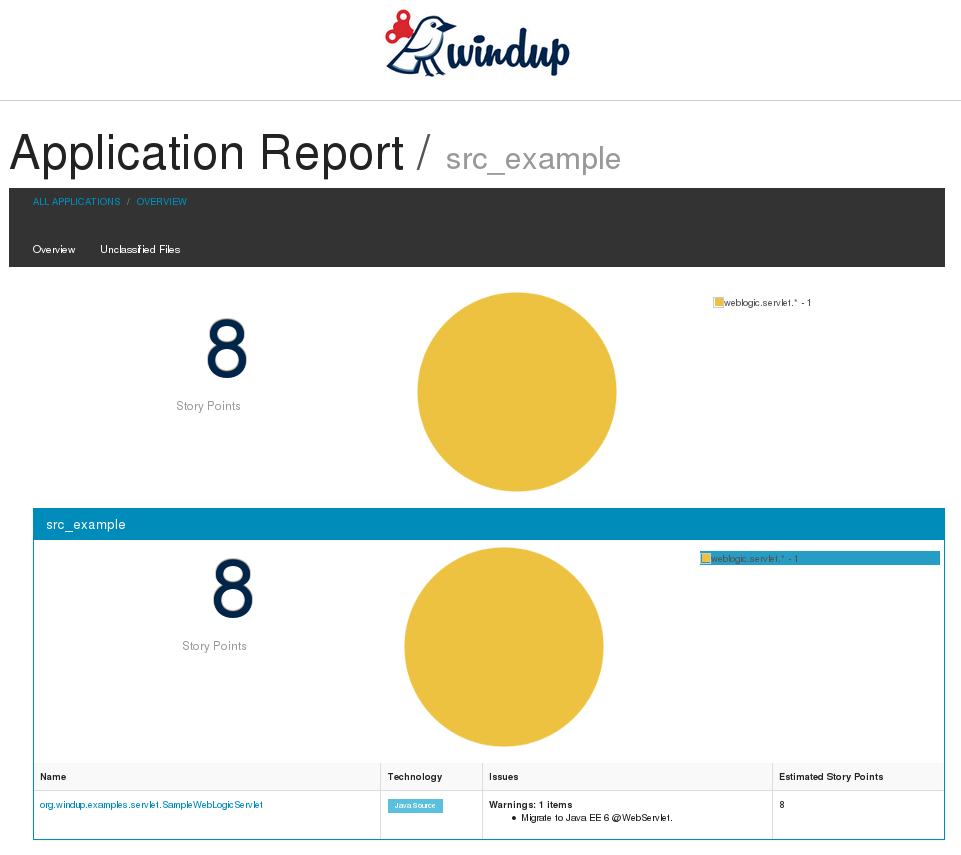
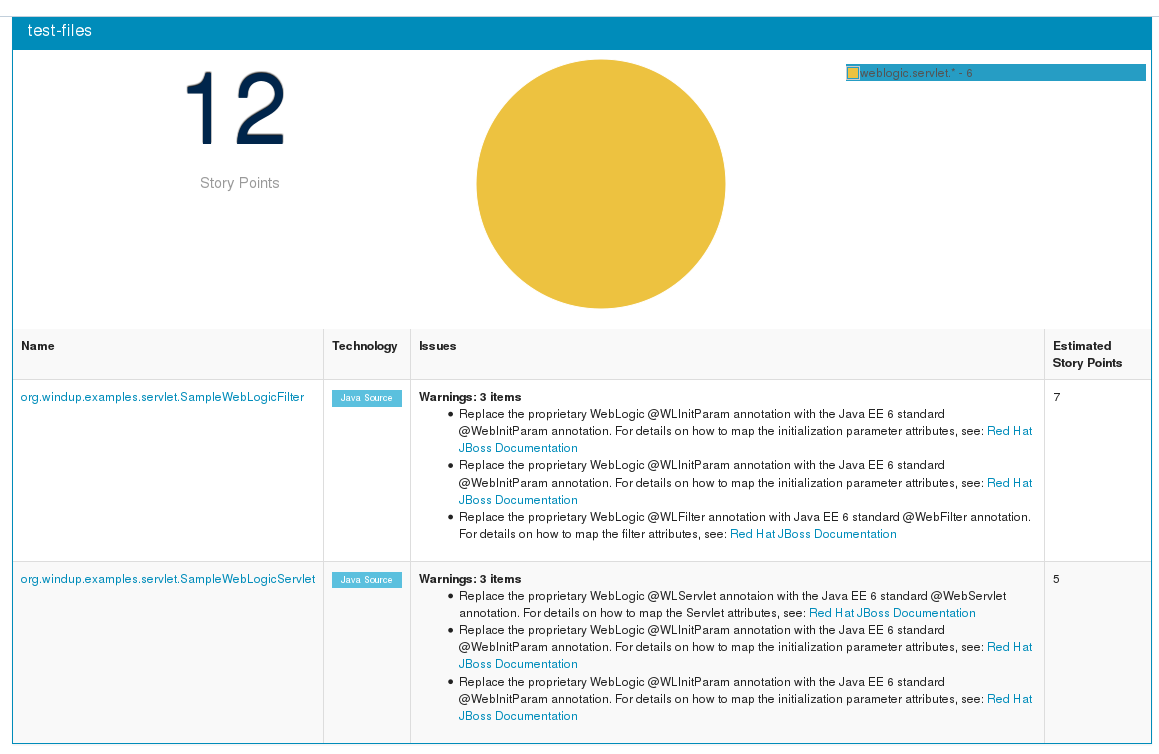
More updates

diff --git a/weblogic-javaee-servlet/src/main/java/org/jboss/windup/qs/rules/MyHintsRuleProvider.java b/weblogic-javaee-servlet/src/main/java/org/jboss/windup/qs/rules/MyHintsRuleProvider.java
@@ -58,7 +58,7 @@ public class MyHintsRuleProvider extends WindupRuleProvider
                 Classification.as("WebLogic @WLServlet")
                    .with(Link.to("Java EE 6 @WebServlet", "http://docs.oracle.com/javaee/6/api/javax/servlet/annotation/package-summary.html"))
                    .withEffort(0)
-                   .and(Hint.withText("Replace @WLServlet with Java EE 6 @WebServlet.\n\r" +
+                   .and(Hint.withText("Replace the proprietary WebLogic @WLServlet annotaion with the Java EE 6 standard @WebServlet annotation.\n\r" +
                                "For details on how to map the Servlet attributes, see: <a href=\"https://access.redhat.com/documentation/en-US/JBoss_Enterprise_Application_Platform/index.html\">Red Hat JBoss Documentation</a>"
                    ).withEffort(1)))
             .addRule()
@@ -69,7 +69,7 @@ public class MyHintsRuleProvider extends WindupRuleProvider
                 Classification.as("WebLogic @WLInitParam")
                    .with(Link.to("Java EE 6 @WebInitParam", "http://docs.oracle.com/javaee/6/api/javax/servlet/annotation/package-summary.html"))
                    .withEffort(0)
-                   .and(Hint.withText("Replace @WLInitParam with Java EE 6 @WebInitParam.\n\r" +
+                   .and(Hint.withText("Replace the proprietary WebLogic @WLInitParam annotation with the Java EE 6 standard @WebInitParam annotation.\n\r" +
                                "For details on how to map the initialization parameter attributes, see: <a href=\"https://access.redhat.com/documentation/en-US/JBoss_Enterprise_Application_Platform/index.html\">Red Hat JBoss Documentation</a>").withEffort(2)))
             .addRule()
             .when(
@@ -79,7 +79,7 @@ public class MyHintsRuleProvider extends WindupRuleProvider
                 Classification.as("WebLogic @WLFilter")
                    .with(Link.to("Java EE 6 @WebFilter", "http://docs.oracle.com/javaee/6/api/javax/servlet/annotation/package-summary.html"))
                    .withEffort(0)
-                   .and(Hint.withText("Replace @WLFilter annotation with Java EE 6 @WebFilter.\n\r" +
+                   .and(Hint.withText("Replace the proprietary WebLogic @WLFilter annotation with Java EE 6 standard @WebFilter annotation.\n\r" +
                                    "For details on how to map the filter attributes, see: <a href=\"https://access.redhat.com/documentation/en-US/JBoss_Enterprise_Application_Platform/index.html\">Red Hat JBoss Documentation</a>").withEffort(3))
             );
     }

diff --git a/weblogic-javaee-servlet/test-files/src_example/src/main/java/org/windup/examples/servlet/SampleWebLogicFilter.java b/weblogic-javaee-servlet/test-files/src_example/src/main/java/org/windup/examples/servlet/SampleWebLogicFilter.java
@@ -16,11 +16,11 @@ import weblogic.servlet.annotation.WLFilter;
  */
 @WLFilter (
     name = "MyHintsRuleFilter",
-    initParams = {
-        @WLInitParam (name="language", value="English"),
-        @WLInitParam (name="catalog", value="spring")
-        }
-    mapping = {"/catalog/*"}
+    initParams = { 
+        @WLInitParam (name="catalog", value="spring"),
+        @WLInitParam (name="language", value="English")
+     },
+     mapping = {"/catalog/*"}
 )
 public class SampleWebLogicFilter implements Filter {
     // no-op

diff --git a/weblogic-javaee-servlet/README.md b/weblogic-javaee-servlet/README.md
@@ -11,7 +11,7 @@ Source: <https://github.com/windup/windup-quickstarts/>
 What is it?
 -----------
 
-WebLogic provides its own proprietary servlet and filter annotations for dependency injection. If the application uses them, they must be replaced with the standard Java EE 6 annotations. This example demonstrates how to create a Windup rule that searches for these proprietary annotations and reports on them.
+WebLogic provides its own proprietary servlet and filter annotations for dependency injection. If the application uses them, they must be replaced with the standard Java EE 6 annotations. This example demonstrates how to create a WindupRuleProvider that searches for these proprietary annotations and reports on them.
 
 The rule searches for the following annotations:
 
@@ -29,10 +29,28 @@ The *MyHintsRuleProvider* class extends *WindupRuleProvider* and overrides the f
 
 * `getExecuteAfter()`: Nothing executes after this, so this method returns an empty list.
 
-* `enhanceMetadata(Context context)`: This method specifies additional meta-data about the Rule instances originating from this WindupRuleProvider.
+* `enhanceMetadata(Context context)`: This method specifies additional metadata about the Rule instances originating from this WindupRuleProvider.
 
-* `getConfiguration(GraphContext context)`: This method looks for "weblogic.servlet.annotation.WLServlet" annotations. If found, it adds the warning text "Migrate to Java EE 6 @WebServlet." to the report, assigns the effort at 8 story points, and provides a link to the JBoss EAP 6 documentation.
+* `getConfiguration(GraphContext context)`: This method does the following.
 
+   1. Adds a rule that looks for `weblogic.servlet.annotation.WLServlet` annotations. If found:
+
+        * Classifies the annotation as "WebLogic @WLServlet" and provides a link to the JavaDoc for the  Java EE @WebServlet equivalent.
+        * Provides a warning text telling the user to replace the proprietary WebLogic @WLServlet annotation with the Java EE 6 standard @WebServlet annotation and provides a link to Red Hat documentation.
+        * Assigns 1 story point of effort to this task.
+   2. Adds a rule that looks for `weblogic.servlet.annotation.WLInitParam` annotations. If found:
+
+        * Classifies the annotation as "WebLogic @WLInitParam" and provides a link to the JavaDoc for the  Java EE @WebInitParam equivalent.
+        * Provides a warning text telling the user to replace the proprietary WebLogic @WLInitParam annotation with the Java EE 6 standard @WebInitParam annotation and provides a link to Red Hat documentation.
+        * Assigns 2 story points of effort to this task.
+
+   3. Adds a rule that looks for `weblogic.servlet.annotation.WLFilter` annotations. If found:
+
+        * Classifies the annotation as "WebLogic @WLFilter" and provides a link to the JavaDoc for the  Java EE @WebFilter equivalent.
+        * Provides a warning text telling the user to replace the proprietary WebLogic @WLFilter annotation with the Java EE 6 standard @WebFilter annotation and provides a link to Red Hat documentation.
+        * Assigns 3 story points of effort to this task.
+
+The Windup JavaDoc is located here: <http://windup.github.io/windup/docs/javadoc/latest/>
 
 System requirements
 -------------------
@@ -183,12 +201,22 @@ Review the Quickstart Report
    You are presented with the following Overview page containing the application profiles.  
 
 ![Overview page](images/windup-report-index-page.png)  
-2. Click on the `src_example` link. 
+2. Click on the `test-files` link. 
 
-   This opens a detail page describing the number of story points for this migration.  
+   This opens a detail page listing the files containing the WebLogic proprietary annotations along with the warning messages, links to obtain more inforamation, and the estimated story points for each item.  
 
 ![Overview page](images/windup-report-detail-page.png)  
-3. Click on the link to drill down and find more infomation.  
+3. Click on the file links to drill down and find more infomation.  
+
+* `SampleWebLogicFilter` shows 7 story points
+
+        4 points, 2 points for each of the two @WLInitParam references
+        3 points for the @WLFilter reference
+        
+* `SampleWebLogicServlet` show 5 story points
+
+        4 points, 2 points for each of the two @WLInitParam references
+        1 points for the @WLServlet reference
 4. Explore the contents of the `windup-reports` folder. For example, the `windup-reports/src_example_report/reports/ruleproviders.html` page lists the details of the rule provider executions. 
 
 
